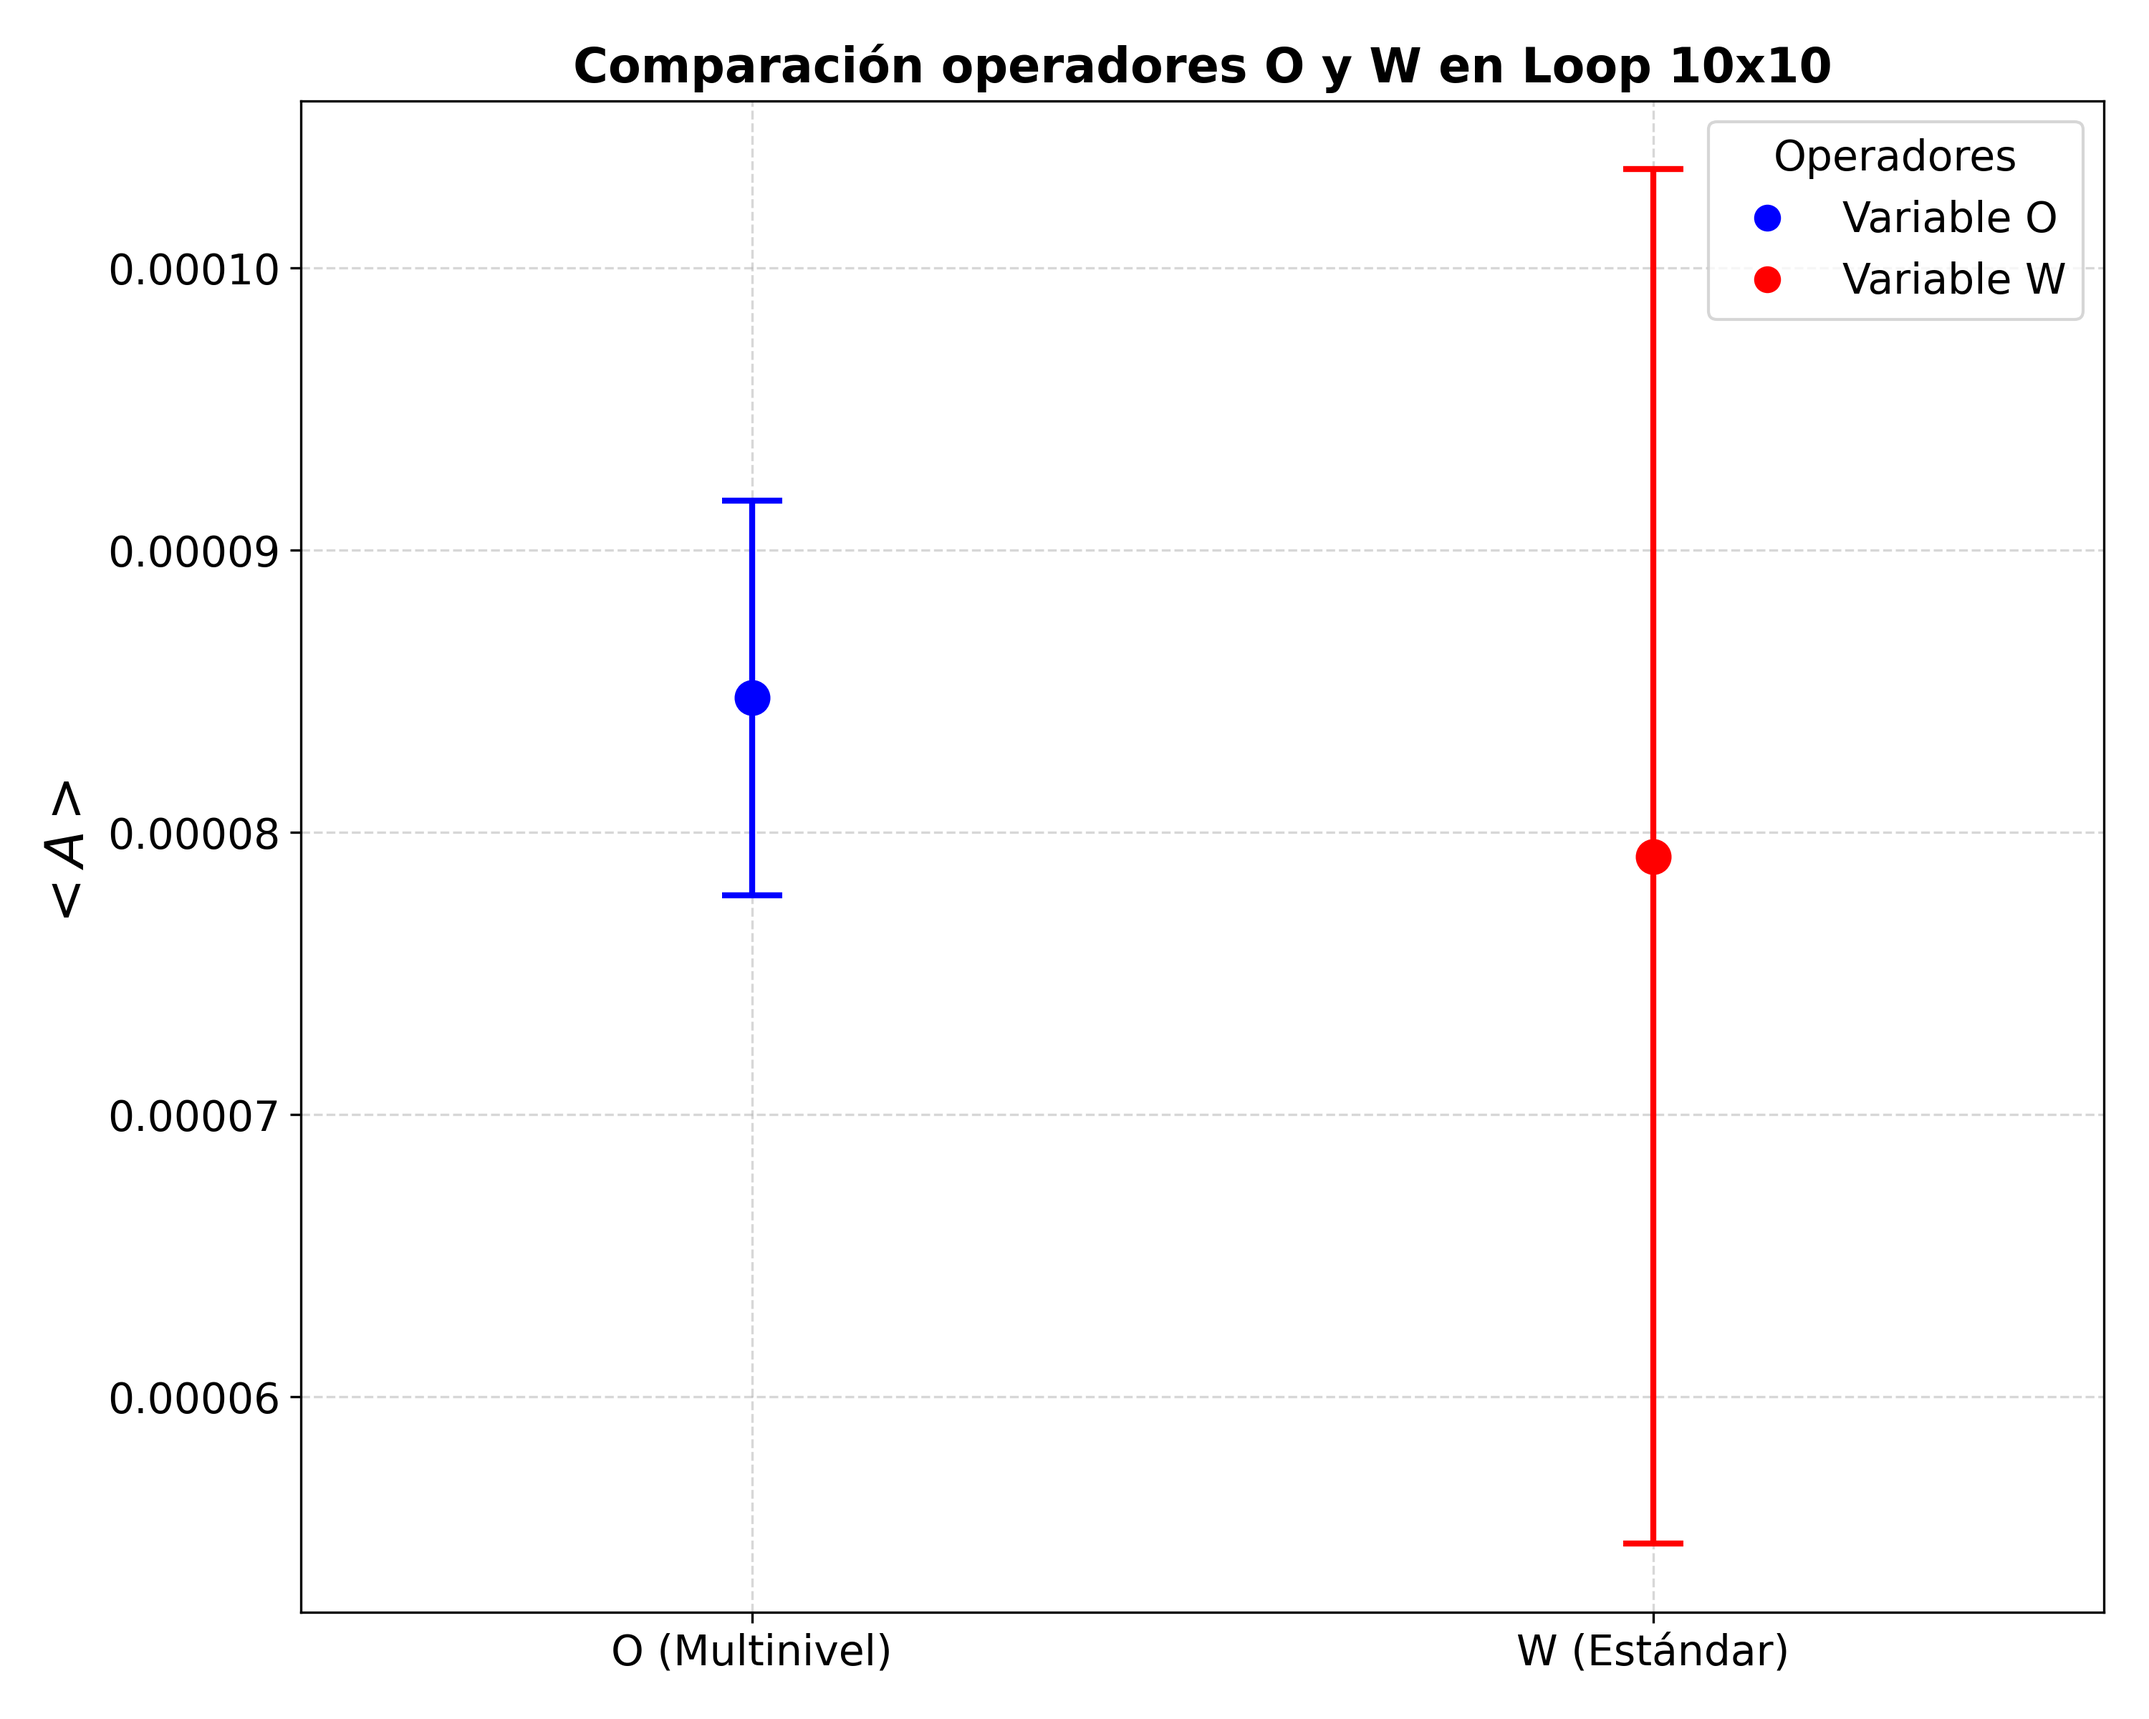
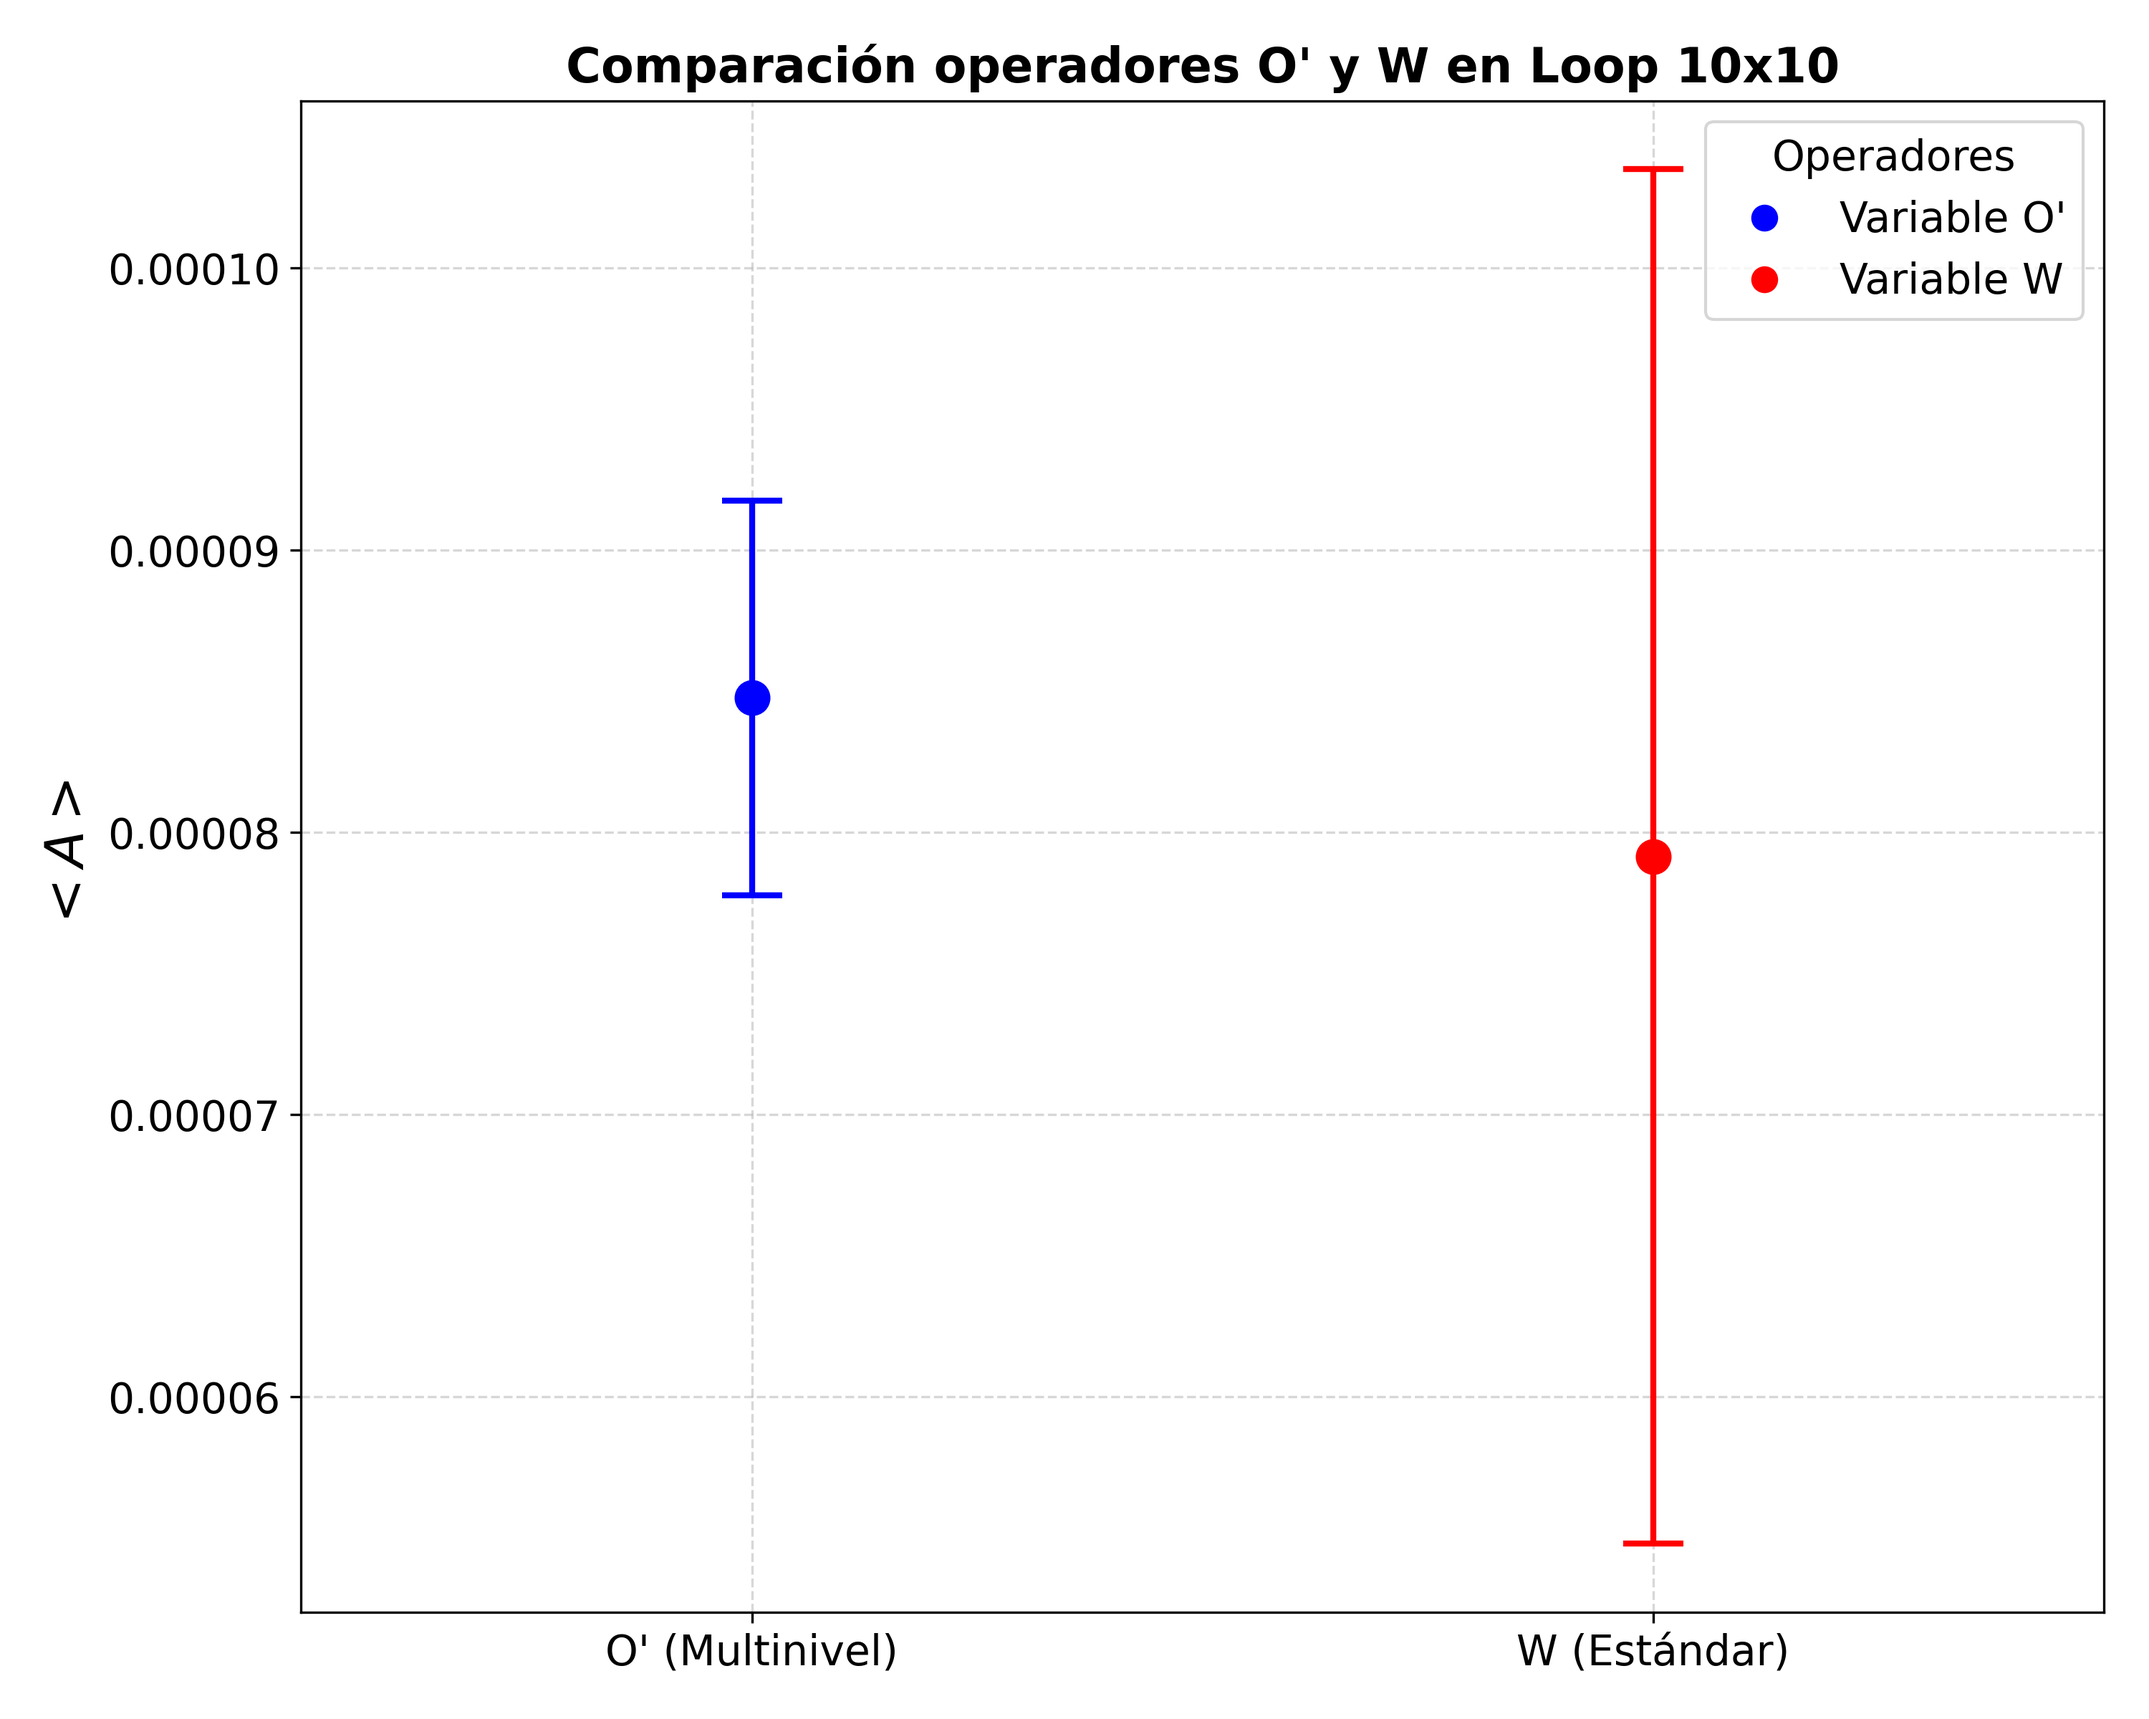
Edición en la grafica de los observables O y W

Changed region(s): [[0.248, 0.0312, 0.868, 0.0625], [0.837, 0.0938, 0.961, 0.1875], [0.279, 0.9375, 0.434, 0.9688]]

diff --git a/Codigo_en_Python_para_graficas/comparacion_O_W.py b/Codigo_en_Python_para_graficas/comparacion_O_W.py
@@ -1,6 +1,7 @@
 import pandas as pd
-import matplotlib.pyplot as plt
 import numpy as np
+import matplotlib.pyplot as plt
+import matplotlib.ticker as ticker
 from matplotlib.lines import Line2D
 
 # Definir nombres de archivos
@@ -8,65 +9,74 @@ file_o = 'DATOS_BUENOS_O.txt'
 file_w = 'DATOS_BUENOS_W.txt'
 
 try:
-    # Cargar datos (sin cabecera, separados por tabulaciones)
+    # Cargar datos
     df_o = pd.read_csv(file_o, sep='\t', header=None)
     df_w = pd.read_csv(file_w, sep='\t', header=None)
 
-    # Extraer datos del Run 0 (primera fila, índice 0)
+    # Extraer datos del Run 0
     run_index = 0
     
-    # Datos para Variable O (10x10)
-    # Columnas: 0=N, 1=Plaq, 2=ErrPlaq, 3=Mean_O, 4=Err_O, ...
     mean_o = df_o.iloc[run_index, 3]
     err_o = df_o.iloc[run_index, 4]
-
-    # Datos para Variable W (10x10)
-    # W10 Mean está en columna 19, Error en 20
+    
     mean_w = df_w.iloc[run_index, 19]
     err_w = df_w.iloc[run_index, 20]
 
-    # Configuración general de fuentes
-    plt.rcParams.update({'font.size': 14}) # Aumentar tamaño de fuente general
+    # Configuración de fuentes (Aumentando tamaños)
+    plt.rcParams.update({
+        'font.size': 16,        # Texto general
+        'axes.titlesize': 20,   # Título del gráfico
+        'axes.labelsize': 18,   # Títulos de ejes
+        'xtick.labelsize': 16,  # Números eje X
+        'ytick.labelsize': 16,  # Números eje Y
+        'legend.fontsize': 16   # Leyenda
+    })
 
-    # Crear figura con un solo plot
-    fig, ax1 = plt.subplots(figsize=(10, 8))
+    # Crear figura
+    fig, ax1 = plt.subplots(figsize=(12, 10)) # Un poco más grande para acomodar fuentes
 
-    # --- Gráfica 1: Comparación de Promedios ---
-    
-    # Puntos reales con barras de error
+    # --- Gráfica ---
+    # Puntos con barras de error
     ax1.errorbar(0, mean_o, yerr=err_o, fmt='o', color='blue', ecolor='blue', 
-                 capsize=10, markersize=10, elinewidth=2, markeredgewidth=2)
+                 capsize=12, markersize=12, elinewidth=3, markeredgewidth=3)
     ax1.errorbar(1, mean_w, yerr=err_w, fmt='o', color='red', ecolor='red', 
-                 capsize=10, markersize=10, elinewidth=2, markeredgewidth=2)
+                 capsize=12, markersize=12, elinewidth=3, markeredgewidth=3)
 
-    # Configuración del eje X
+    # Eje X
     ax1.set_xticks([0, 1])
-    ax1.set_xticklabels(['O (Multinivel)', 'W (Estándar)'])
+    ax1.set_xticklabels(['Variable O\n(Multinivel)', 'Variable W\n(Estándar)'])
     ax1.set_xlim(-0.5, 1.5)
 
-    # Etiquetas y Título
-    ax1.set_ylabel(r'$<A>$', fontsize=18, fontweight='bold') # Etiqueta eje Y solicitada
-    ax1.set_title('Comparación operadores O y W en Loop 10x10', fontsize=16, fontweight='bold')
+    # Formateador personalizado para Eje Y
+    # Para poner 8.0 x 10^-5 en lugar de 10^-4 arriba
+    def sci_format(x, pos):
+        if x == 0: return "0"
+        exponent = int(np.floor(np.log10(abs(x))))
+        coeff = x / 10**exponent
+        return r"${:.1f} \times 10^{{{}}}$".format(coeff, exponent)
+
+    ax1.yaxis.set_major_formatter(ticker.FuncFormatter(sci_format))
+
+    # Títulos
+    ax1.set_ylabel(r'Valor Esperado $\langle A \rangle$', fontweight='bold') 
+    ax1.set_title('Comparación de Observables (Loop 10x10)', fontweight='bold', pad=20)
     
-    # Grid y Leyenda
+    # Grid
     ax1.grid(True, linestyle='--', alpha=0.5)
     
-    # Crear handles personalizados para la leyenda
+    # Leyenda
     legend_elements = [
         Line2D([0], [0], marker='o', color='w', label='Variable O', 
-               markerfacecolor='blue', markersize=10),
+               markerfacecolor='blue', markersize=12),
         Line2D([0], [0], marker='o', color='w', label='Variable W', 
-               markerfacecolor='red', markersize=10)
+               markerfacecolor='red', markersize=12)
     ]
-    ax1.legend(handles=legend_elements, loc='best', fontsize=14, title="Operadores")
+    ax1.legend(handles=legend_elements, loc='best', title="Leyenda")
 
     plt.tight_layout()
-    plt.savefig('comparacion_run0_O_W_single.png', dpi=300)
+    plt.savefig('comparacion_run0_final_large.png', dpi=300)
     
-    print(f"Datos Run 0:")
-    print(f"O: {mean_o:.8f} +/- {err_o:.8f}")
-    print(f"W: {mean_w:.8f} +/- {err_w:.8f}")
-    print("Gráfica generada: comparacion_run0_O_W_single.png")
+    print(f"Gráfica generada: comparacion_run0_final_large.png")
 
 except Exception as e:
     print(f"Error: {e}")
